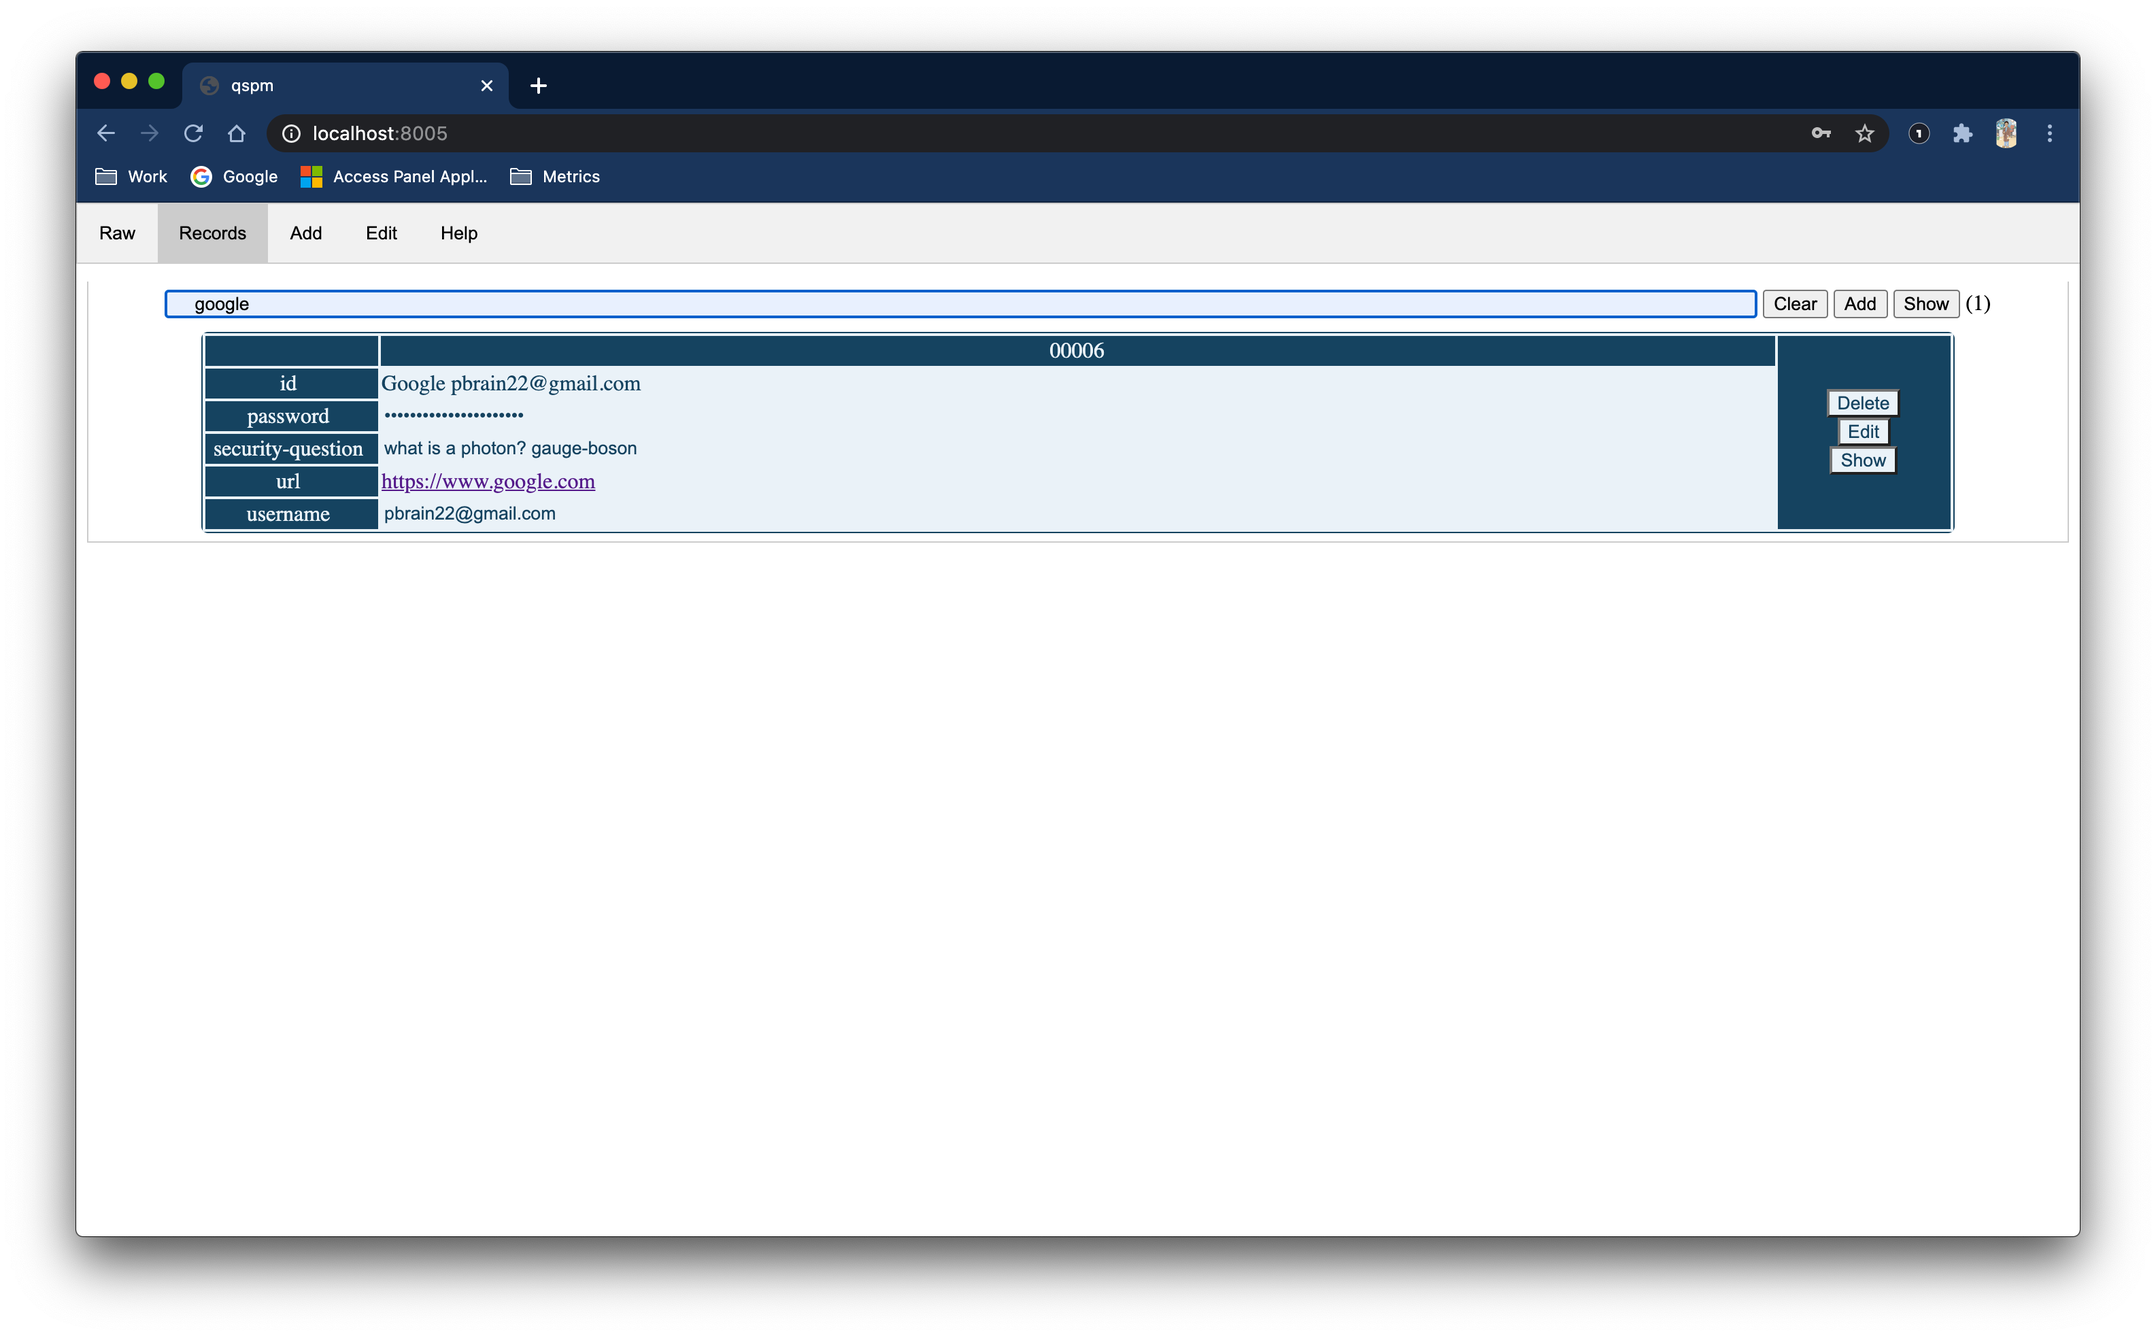
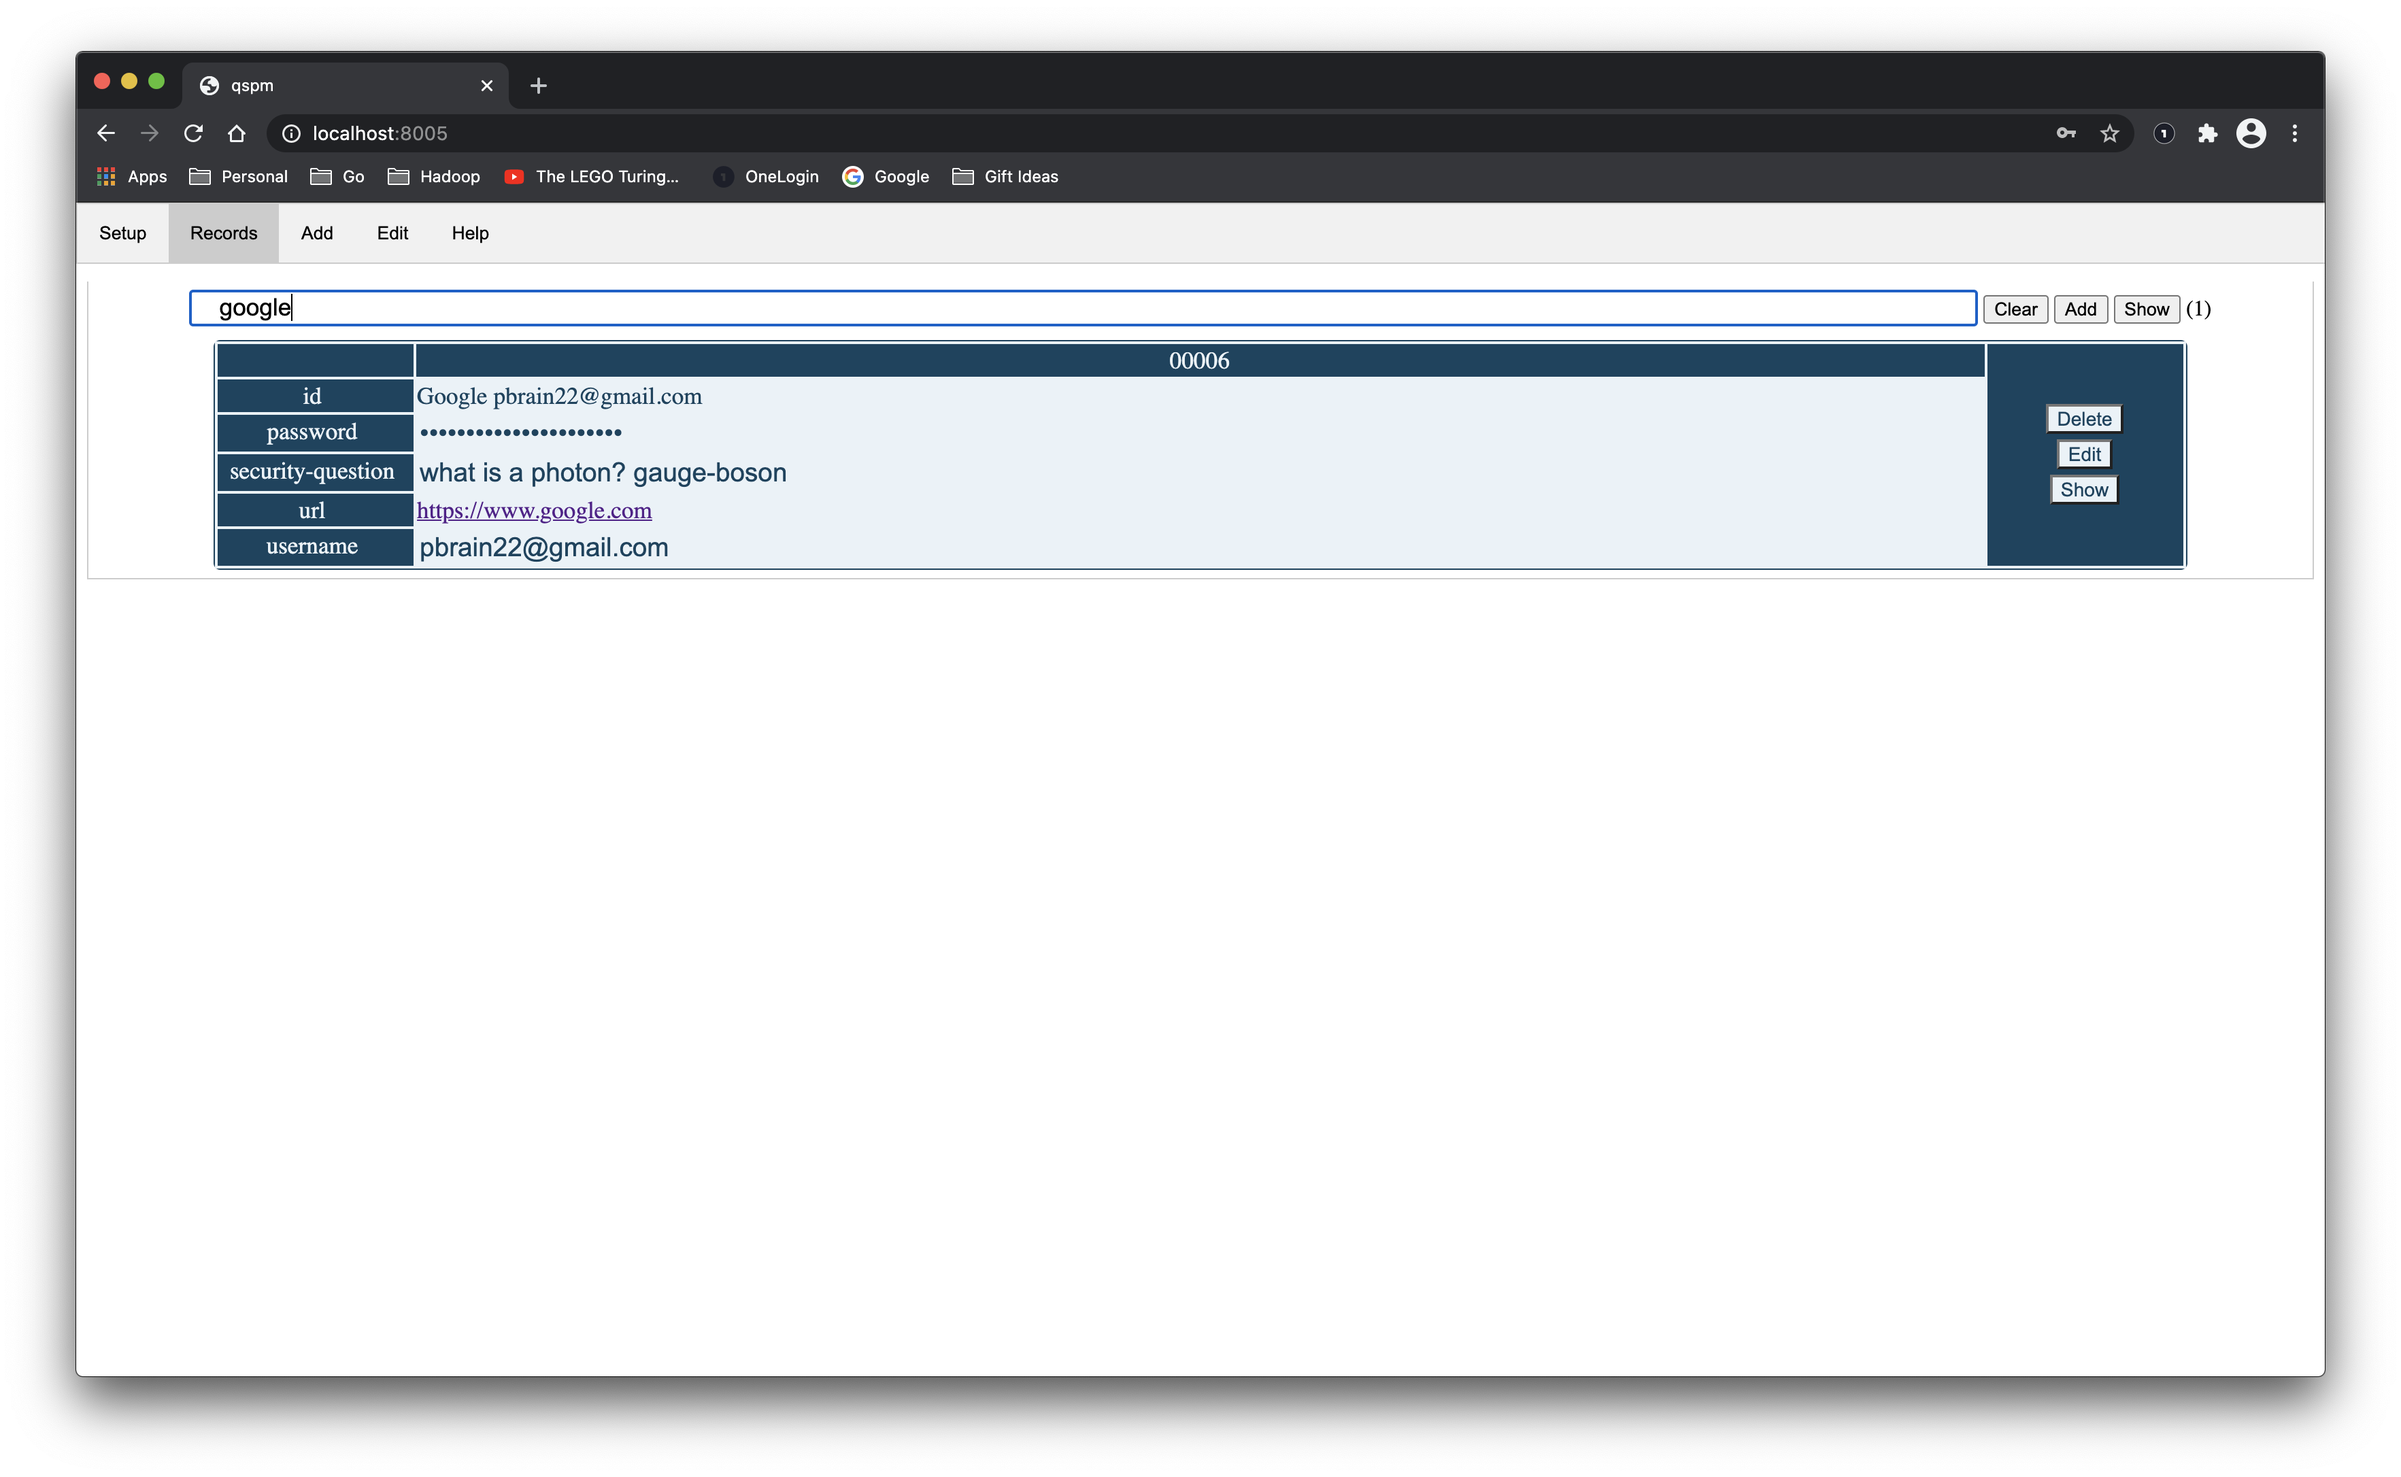
Jlinoff 20210130 setup (#21)
Routine maintenance changes.
1. Make the notes textarea visibly differentiable from other fields so the user knows that they can expand it.
2. Allow the user to define the default size of the notes fields.
3. Make record contents a bit more readable on the Records page.
4. Rename the Raw tab to the Setup tab to make it more informative. Issue #19.
5. Re-organize the Setup tab layout slightly so group the fields at the top of the page. Add support for defining the default notes height. Issue #20.
6. Update to python-3.9.
7. Update Pipfile packages.
8. Update Rust packages.
9. Update the help images.
10. Fix "make clean" target. 
11. Fix issue #4: added the textarea type for notes.
12. Bump version to 0.3.0.

Changed region(s): [[0.0312, 0.031, 0.9681, 0.9619]]

diff --git a/www/index.html b/www/index.html
@@ -1,4 +1,4 @@
-<!DOCTYPE html>
+ <!DOCTYPE html>
 <html>
   <head>
     <meta content="text/html;charset=utf-8" http-equiv="Content-Type"/>
@@ -6,7 +6,7 @@
     <title>qspm</title>
     <link rel="stylesheet" href="css/style.css">
     <link rel="stylesheet" href="css/password.css">
-    <link rel="stylesheet" href="css/raw.css">
+    <link rel="stylesheet" href="css/setup.css">
     <link rel="stylesheet" href="css/records.css">
     <link rel="stylesheet" href="css/edit.css">
     <link rel="stylesheet" href="css/add.css">
@@ -15,7 +15,7 @@
     <script src="js/password.js"></script>
     <script src="js/dropbox.js"></script>
     <script src="js/help.js"></script>
-    <script src="js/raw.js"></script>
+    <script src="js/setup.js"></script>
     <script src="js/add.js"></script>
     <script src="js/edit.js"></script>
     <script src="js/records.js"></script>
@@ -25,9 +25,9 @@
     <!-- Tab links -->
     <div class="tab top-div">
       <button
-        id="tabRaw"
-        onclick="openTab(event, 'Raw')"
-        class="tablinks">Raw</button>
+        id="tabSetup"
+        onclick="openTab(event, 'Setup')"
+        class="tablinks">Setup</button>
       <button
         id="tabRecords"
         onclick="openTab(event, 'Records')"
@@ -49,22 +49,43 @@
     <div id="middle-div">&nbsp;</div>
 
     <!-- ************************************************************************ -->
-    <!-- ** Raw -->
+    <!-- ** Setup -->
     <!-- ************************************************************************ -->
-    <div id="Raw" class="tabcontent">
-      <label>Upload/Download Options:</label>&nbsp;
-      <select id="ulOptionsSelect" onchange="window.doUlOptions()" selected="none">
-        <option value="dropbox">DropBox</option>
-        <option value="file">File</option>
-        <option value="none" selected="selected">None</option>
-        <option value="url">URL</option>
-      </select>
-      &nbsp;&nbsp;&nbsp;
-      <span id="algorithmSpan"></span>
+    <div id="Setup" class="tabcontent">
+      <fieldset>
+        <!-- Setup Parameters -->
+        <legend>Setup Parameters</legend>
+
+        <!-- Upload/Download Options -->
+        <label>Upload/Download Options:</label>
+	&nbsp;
+        <select id="ulOptionsSelect" onchange="window.doUlOptions()" selected="none">
+          <option value="dropbox">DropBox</option>
+          <option value="file">File</option>
+          <option value="none" selected="selected">None</option>
+          <option value="url">URL</option>
+        </select>
+
+        <!-- Encryption Algorithms -->
+        &nbsp;&nbsp;&nbsp;
+        <span id="algorithmSpan"></span>
+
+        <!-- Note Height -->
+        &nbsp;&nbsp;&nbsp;
+        <label>Note height (lines):</label>
+	&nbsp;
+        <select id="miscNoteHeight" onchange="window.doMiscNoteHeight()" selected="2">
+          <option value="1" selected="selected">1</option>
+          <option value="2">2</option>
+          <option value="3">3</option>
+          <option value="4">4</option>
+          <option value="5">5</option>
+        </select>
+      </fieldset>
       <p></p>
 
       <!-- Dropbox Upload/Download -->
-      <div id="rawUlDivDropBox" style="display:none">
+      <div id="setupUlDivDropBox" style="display:none">
         <fieldset>
           <legend>DropBox</legend>
           <table>
@@ -75,7 +96,7 @@
                   <input
                     type="text"
                     id="ulDropboxToken"
-                    class="raw-input"
+                    class="setup-input"
                     placeholder="DropBox access token.."
                     onkeyup="utilSetSessionKey('ulDropboxToken','ssidDropboxToken')"
                     onpaste="utilSetSessionKey('ulDropboxToken','ssidDropboxToken')"
@@ -94,7 +115,7 @@
                   <input
                     type="text"
                     id="ulDropboxFile"
-                    class="raw-input"
+                    class="setup-input"
                     placeholder="File name.."
                     onkeyup="utilSetSessionKey('ulDropboxFile','ssidDropboxFile')"
                     onpaste="utilSetSessionKey('ulDropboxFile','ssidDropboxFile')"
@@ -127,7 +148,7 @@
       </div>
 
       <!-- File Download -->
-      <div id="rawUlDivFile" style="display:none">
+      <div id="setupUlDivFile" style="display:none">
         <fieldset>
           <legend>Download File</legend>
           <button
@@ -139,13 +160,13 @@
       </div>
 
       <!-- Url Download -->
-      <div id="rawUlDivUrl" style="display:none">
+      <div id="setupUlDivUrl" style="display:none">
         <fieldset>
           <legend>Download URL</legend>
           <input
             type="text"
             id="ulUrl"
-            class="raw-input"
+            class="setup-input"
             placeholder="URL name.."
             size="80">
           <button
@@ -157,14 +178,14 @@
       </div>
 
       <p></p>
-      <div id="rawPasswordFieldset"></div>
+      <div id="setupPasswordFieldset"></div>
 
       <p></p>
       <fieldset>
         <!-- Encrypt/Decrypt -->
-        <legend>Raw Data</legend>
+        <legend>Setup Data</legend>
         <div style="width: 100%; min-width: 200px;">
-          <textarea rows="16" id="cryptText" class="raw-input" style="width: 100%"></textarea>
+          <textarea rows="16" id="cryptText" class="setup-input" style="width: 100%"></textarea>
         </div>
         <p></p>
         <button

diff --git a/www/js/setup.js b/www/js/setup.js
@@ -1,4 +1,4 @@
-// Raw tab services.
+// Setup tab services.
 /*eslint no-unused-vars: ["error", { "argsIgnorePattern": "^_" }]*/
 window.addEventListener("load", function(_evt) {
     document.getElementById('ulDownloadFile').addEventListener('click', downloadFile);
@@ -10,20 +10,21 @@ window.addEventListener("load", function(_evt) {
     document.getElementById('cryptClear').addEventListener('click', clearText);
     document.getElementById('cryptExample').addEventListener('click', exampleText);
     document.getElementById('cryptTextSize').addEventListener('click', window.utilSetCryptTextSize);
-    document.getElementById("tabRaw").click();
+    document.getElementById("tabSetup").click();
     window.doDecrypt = doDecrypt;
     window.doEncrypt = doEncrypt;
     window.doUlOptions = doUlOptions;
-    initRaw();
+    window.doMiscNoteHeight = doMiscNoteHeight;
+    initSetup();
 });
 
 // Initialize. Basically just add in the password fieldset.
-function initRaw() {
-    var pfs = document.getElementById('rawPasswordId');
+function initSetup() {
+    var pfs = document.getElementById('setupPasswordId');
     if (!pfs) {
         // Don't re-create it if it is already there.
-        var div = document.getElementById('rawPasswordFieldset');
-        var fieldset = window.passwordCreateFieldset('rawPassword',
+        var div = document.getElementById('setupPasswordFieldset');
+        var fieldset = window.passwordCreateFieldset('setupPassword',
                                                      'Master Password',
                                                      false,
                                                      'ssidMasterPasswordValue');
@@ -38,14 +39,17 @@ function initRaw() {
     } else {
         window.utilSetCryptTextSize();
     }
+
+    // Set the note height.
+    doMiscNoteHeight();
 }
 
 // Upload/download options.
 function doUlOptions() {
     var obj1 = document.getElementById('ulOptionsSelect');
-    var obj2 = document.getElementById('rawUlDivDropBox');
-    var obj3 = document.getElementById('rawUlDivFile');
-    var obj4 = document.getElementById('rawUlDivUrl');
+    var obj2 = document.getElementById('setupUlDivDropBox');
+    var obj3 = document.getElementById('setupUlDivFile');
+    var obj4 = document.getElementById('setupUlDivUrl');
     if (obj1.value == "dropbox") {
         obj2.setAttribute("style", "display:inline");
         obj3.setAttribute("style", "display:none");
@@ -120,7 +124,7 @@ function downloadUrl() {
 
 // Encrypt.
 function doEncrypt() {
-    var obj1 = document.getElementById("rawPasswordId");
+    var obj1 = document.getElementById("setupPasswordId");
     var pass = obj1.value.trim();
     var text = window.utilGetCryptText().trim();
     if (!pass) {
@@ -142,7 +146,7 @@ function doEncrypt() {
 
 // Decrypt.
 function doDecrypt() {
-    var obj1 = document.getElementById("rawPasswordId");
+    var obj1 = document.getElementById("setupPasswordId");
     var pass = obj1.value.trim();
     var text = window.utilGetCryptText().trim();
     if (!pass) {
@@ -276,4 +280,10 @@ function exampleText() {
     };
     var text = JSON.stringify(rec, null, 4);
     window.utilSetCryptText(text);
+}
+
+// Capture the default note textarea height.
+function doMiscNoteHeight() {
+    var obj = document.getElementById('miscNoteHeight');
+    sessionStorage.setItem("noteHeight", obj.value);
 }

diff --git a/www/css/records.css b/www/css/records.css
@@ -9,6 +9,7 @@
 #main-records-search {
     width: 80%;
     padding-left: 20px;
+    font-size: 110%
 }
 
 .main-record-div {
@@ -26,21 +27,27 @@
     width: 100%;
     background-color: #eaf2f8;
     color: #154360;
+    font-size: 110%;
 }
 
 .main-record-div table tbody tr td input {
     background-color: #eaf2f8;
     color: #154360;
+    font-size: 110%;
 }
 
 .main-record-div table tbody tr td textarea {
-    background-color: #eaf2f8;
+    /*background-color: #eaf2f8;*/
+    background-color: #d9e1e7;
     color: #154360;
+    font-size: 110%;
 }
 
 .main-record-div table tbody tr td button {
     background-color: #eaf2f8;
     color: #154360;
+    font-size: 80%;
+    margin: 2px;
 }
 
 .main-record-div table tbody tr:nth-child(1) td:nth-child(2) {

diff --git a/www/js/records.js b/www/js/records.js
@@ -218,6 +218,7 @@ function displayField(rec, tbody, fkey, fval) {
     // which case they are linkable.
     var inp;
     var ufval = "";
+    var noteHeight = sessionStorage.getItem("noteHeight");
     if (typeof fval == 'string' || fval instanceof String) {
         ufval = fval.toUpperCase();
     }
@@ -235,7 +236,7 @@ function displayField(rec, tbody, fkey, fval) {
         } else if (fkey.toUpperCase().startsWith("NOTE")) {
             // Handle text areas.
             inp = document.createElement("TEXTAREA");
-            inp.setAttribute("rows", "3");
+            inp.setAttribute("rows", noteHeight);
             inp.className = "main-records-textarea-field";
         } else {
             inp = document.createElement("INPUT");

diff --git a/www/js/edit.js b/www/js/edit.js
@@ -228,6 +228,8 @@ function editAppendTableRow(tbody, rkey, key, val) {
     var td;
     var inp;
     var textarea = key.toUpperCase().startsWith("NOTE");
+    var noteHeight = sessionStorage.getItem("noteHeight");
+    
     console.log("edit-key:" + key)
     console.log("edit-rkey:" + rkey)
 
@@ -243,7 +245,7 @@ function editAppendTableRow(tbody, rkey, key, val) {
     td = document.createElement("TD");
     if (textarea) {
         inp = document.createElement("TEXTAREA");
-        inp.setAttribute("rows", "3");
+        inp.setAttribute("rows", noteHeight);
     }
     else {
         inp = document.createElement("INPUT");

diff --git a/www/css/setup.css b/www/css/setup.css
@@ -1,4 +1,4 @@
-.raw-input {
+.setup-input {
     background-color: #eaf2f8;
     color: #154360;
     border-style: solid;

diff --git a/tests/test_ui.py b/tests/test_ui.py
@@ -34,14 +34,14 @@ def test_tabs(py):  # pylint: disable=invalid-name
     debug(f'URL: {URL}')
     py.visit(URL)
 
-    assert py.find('#tabRaw')
+    assert py.find('#tabSetup')
     assert py.find('#tabRecords')
     assert py.find('#tabAdd')
     assert py.find('#tabEdit')
     assert py.find('#tabHelp')
 
     # Click on each element that works without JSON.
-    py.find('#tabRaw')[0].click()
+    py.find('#tabSetup')[0].click()
     py.find('#tabAdd')[0].click()
     py.find('#tabHelp')[0].click()
 
@@ -51,10 +51,10 @@ def test_tabs(py):  # pylint: disable=invalid-name
     #with pytest.raises(UnexpectedAlertPresentException):
     #    py.find('#tabRecords')[0].click()
     #    time.sleep(5)  # this is an absurdly long wait
-    #py.find('#tabRaw')[0].click()
+    #py.find('#tabSetup')[0].click()
 
 
-def test_raw_uloptions(py):  # pylint: disable=invalid-name
+def test_setup_uloptions(py):  # pylint: disable=invalid-name
     '''
     Verify that the upload/download options select box works.
     '''
@@ -70,7 +70,7 @@ def test_raw_uloptions(py):  # pylint: disable=invalid-name
     py.get('#algorithmSelect').select('qspm-aws-256-gcm-siv')
 
 
-def test_raw_example(py):  # pylint: disable=invalid-name,too-many-statements,too-many-locals
+def test_setup_example(py):  # pylint: disable=invalid-name,too-many-statements,too-many-locals
     '''
     Test that the example can be created, encrypted, decrypted,
     compressed and formatted.
@@ -79,7 +79,7 @@ def test_raw_example(py):  # pylint: disable=invalid-name,too-many-statements,to
     py.visit(URL)
 
     # Make sure that the example button generates what we expect.
-    assert py.find('#tabRaw')
+    assert py.find('#tabSetup')
     assert py.find('#cryptExample')
     py.find('#cryptExample')[0].click()
     text = py.get('#cryptText').get_attribute('value')
@@ -88,7 +88,7 @@ def test_raw_example(py):  # pylint: disable=invalid-name,too-many-statements,to
     # Now click on the password generation button.
     generate = None
     show = None
-    buttons = py.get('#rawPasswordFieldset').find('button')
+    buttons = py.get('#setupPasswordFieldset').find('button')
     for button in buttons:
         html = button.get_property('innerHTML')
         debug(f'button: "{html}"')
@@ -103,17 +103,17 @@ def test_raw_example(py):  # pylint: disable=invalid-name,too-many-statements,to
     generate.click()
 
     # Make sure that it is different each time.
-    pw1 = py.find('#rawPasswordId')[0].get_attribute('value')
+    pw1 = py.find('#setupPasswordId')[0].get_attribute('value')
     generate.click()
-    pw2 = py.find('#rawPasswordId')[0].get_attribute('value')
+    pw2 = py.find('#setupPasswordId')[0].get_attribute('value')
     generate.click()
-    pw3 = py.find('#rawPasswordId')[0].get_attribute('value')
+    pw3 = py.find('#setupPasswordId')[0].get_attribute('value')
     assert pw1 != pw2
     assert pw1 != pw3
     assert pw2 != pw3
 
     # Verify that a master password was created.
-    inp = py.find('#rawPasswordId')[0]
+    inp = py.find('#setupPasswordId')[0]
     text = inp.get_attribute('value')
     assert len(text) > 0
     debug(f'password: {text}')
